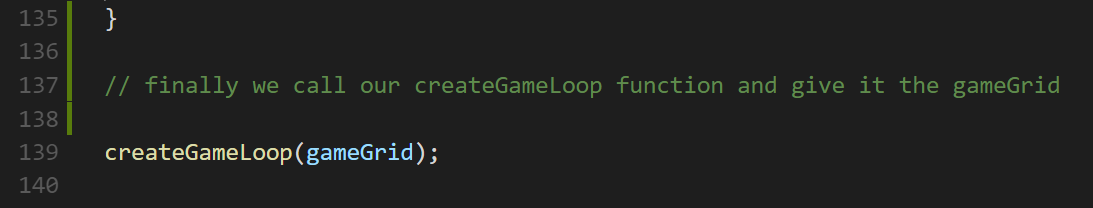
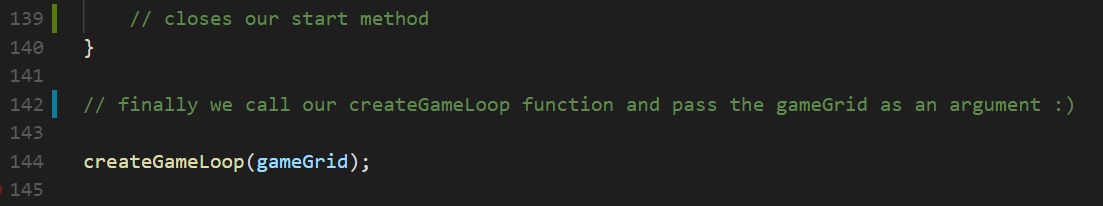
adding API images and docs
adding images and API docs
also updated a few tutorial images

Changed region(s): [[0.0, 0.0, 0.9954, 0.6699], [0.0, 0.6699, 0.4044, 0.8447], [0.0, 0.8447, 0.0622, 0.9612]]

diff --git a/pages/API.html b/pages/API.html
@@ -62,8 +62,51 @@
 				<p id="fullText">
 					The library also comes with a few convenience classes: 2D Vector class with methods to do vector math. A boundingBox class to help with collision detection. A square class that extends boundingBox and adds rendering and color methods. An RGB color class to help set gameObject colors. 
 				</p>
+
+				<h2>GameGrid methods</h2>
+				
+				<p id="fullText">
+					Here's a list of the most important methods you want to override to create game behavior. These methods don't do anything so you can use them anyway you like. The most important one is probably update(). This method is called 60 times per second while the game is running.
+				</p>
+				<img src="../images/api/gameGrid0.PNG" alt="" width="700">
+
+				<p id="fullText">
+					These methods can be redefined to render squares or text at start, update, pause or gameOver. They are called 60 times per second.
+				</p>
+				<img src="../images/api/gameGrid1.PNG" alt="" width="700">
+
+				<p id="fullText">
+					These methods are called when user inputs keyboard or mouse data. They must have at least 1 argument, which is the input data. 
+				</p>
+				<img src="../images/api/gameGrid2.PNG" alt="" width="700">
+
+				<p id="fullText">
+					These methods are NOT meant to be overriden. You use them to get data from the gameGrid.
+				</p>
+				<img src="../images/api/gameGrid3.PNG" alt="" width="700">
+
+				<p id="fullText">
+					These methods are are used to create and get gameObjects form the gameGrid. You can also add your new gameObject classes to the gameGrid factory. That way the gameGrid can create and keep track of your new gameObject.
+				</p>
+				<img src="../images/api/gameGrid4.PNG" alt="" width="700">
+
+				<p>
+					Use these to print HTML text to the logger element.
+				</p>
+				<img src="../images/api/gameGrid5.PNG" alt="" width="700">
+
+				<p id="fullText">
+					You can use these methods to render squares and text on the screen.
+				</p>
+				<img src="../images/api/gameGrid6.PNG" alt="" width="700">
+
+				<p id="fullText">
+					If you want your game to be tiled based you can use these methods to help you get and set tile data. The gameGrid has a tile array that keeps track of tile objects. 
+				</p>
+				<img src="../images/api/gameGrid7.PNG" alt="" width="700">
+
 				<br>
-				<a href="tutorial.html">BACK TO TOP</a> 
+				<a href="API.html">BACK TO TOP</a> 
 				<br>
 				<br>
 				<img src="../images/logo.png"   width="60">

diff --git a/games/pong.js b/games/pong.js
@@ -136,8 +136,9 @@ gameGrid.start = function(){
         } 
     }
 
+    // closes our start method
 }
 
-// finally we call our createGameLoop function and give it the gameGrid
+// finally we call our createGameLoop function and pass the gameGrid as an argument :)
 
 createGameLoop(gameGrid);
